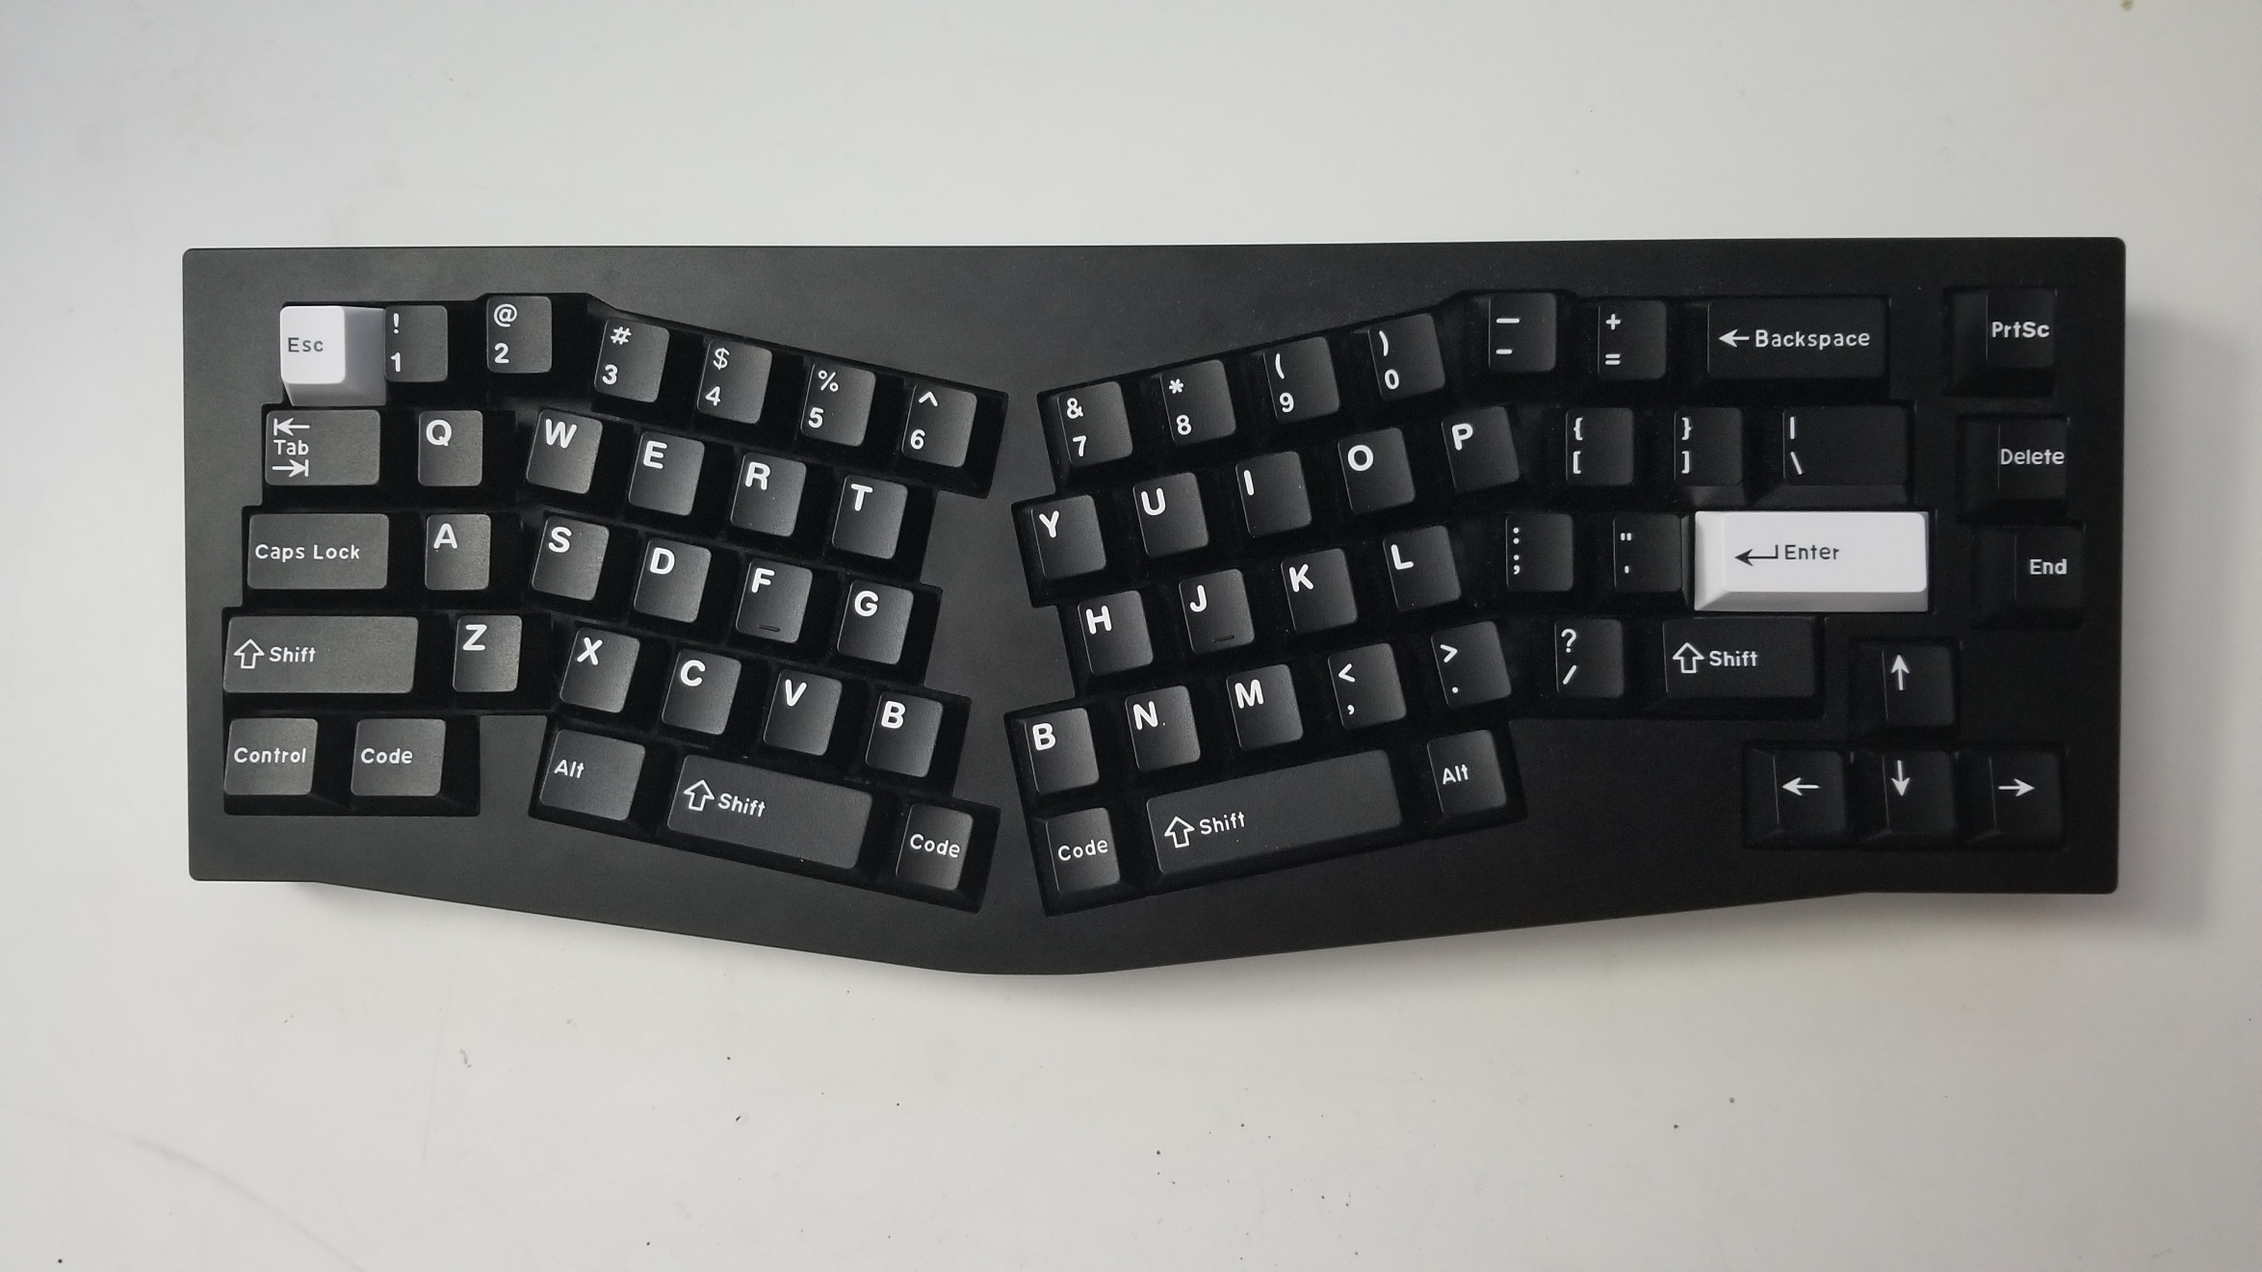
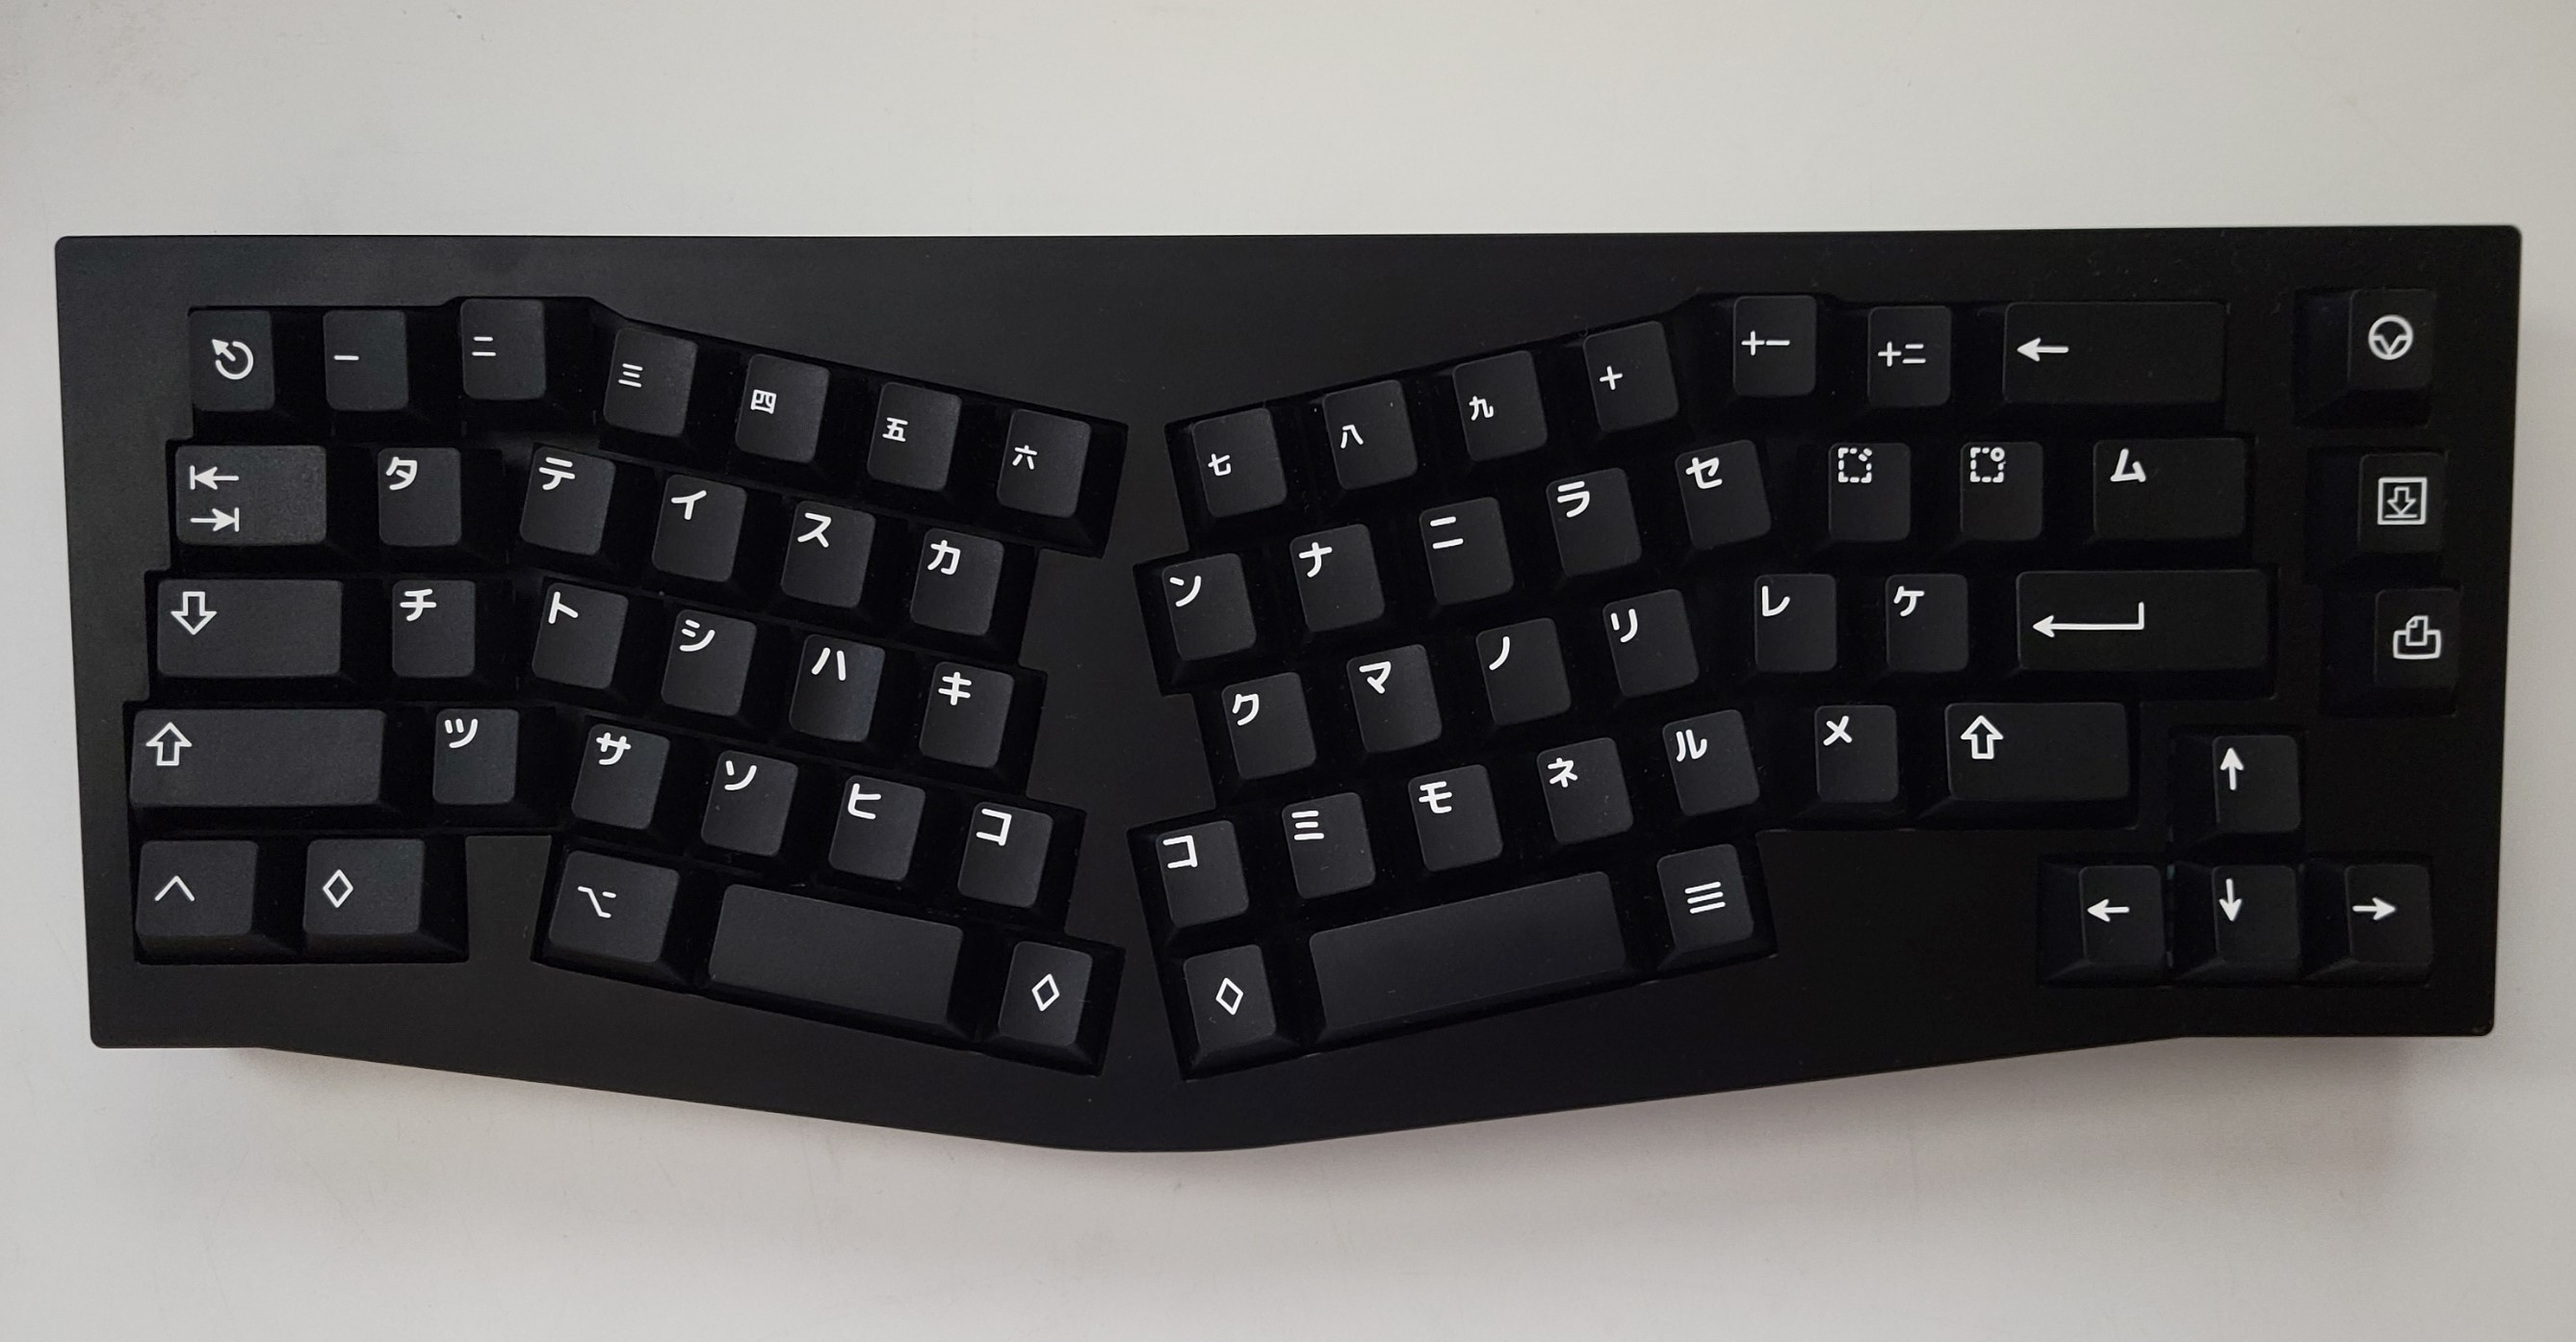
updated keyboard pic

diff --git a/pages/music.html b/pages/music.html
@@ -29,23 +29,22 @@
         <div class="main">
             <h1>music</h1>
             <p>hobby, not as active right now</p>
-            <p>bring back 2016 soundcloud</p>
-            <p>fav genres: death metal, jpop, rap, hyperpop</p>
+            <p>DAW: FL Studio 12</p>
             <a href = "https://soundcloud.com/akukerang"><img id = "social" src="../resources/logos/soundcloud.png" alt="soundcloud" style="margin-top:10px"></a>
-            <h2>phonk</h2>
-            <div class = "content">
-                <iframe width="60%" height="166" scrolling="no" frameborder="no" allow="autoplay" src="https://w.soundcloud.com/player/?url=https%3A//api.soundcloud.com/tracks/1097771002&color=%23ff5500&auto_play=false&hide_related=false&show_comments=true&show_user=true&show_reposts=false&show_teaser=true"></iframe><div style="font-size: 10px; color: #cccccc;line-break: anywhere;word-break: normal;overflow: hidden;white-space: nowrap;text-overflow: ellipsis; font-family: Interstate,Lucida Grande,Lucida Sans Unicode,Lucida Sans,Garuda,Verdana,Tahoma,sans-serif;font-weight: 100;"><a href="https://soundcloud.com/akukerang" title="aku" target="_blank" style="color: #cccccc; text-decoration: none;">aku</a> · <a href="https://soundcloud.com/akukerang/skyline-r32" title="phonktemp1" target="_blank" style="color: #cccccc; text-decoration: none;">phonktemp1</a></div>
-                <iframe width="60%" height="166" scrolling="no" frameborder="no" allow="autoplay" src="https://w.soundcloud.com/player/?url=https%3A//api.soundcloud.com/tracks/1098908470&color=%23ff5500&auto_play=false&hide_related=false&show_comments=true&show_user=true&show_reposts=false&show_teaser=true"></iframe><div style="font-size: 10px; color: #cccccc;line-break: anywhere;word-break: normal;overflow: hidden;white-space: nowrap;text-overflow: ellipsis; font-family: Interstate,Lucida Grande,Lucida Sans Unicode,Lucida Sans,Garuda,Verdana,Tahoma,sans-serif;font-weight: 100;"><a href="https://soundcloud.com/akukerang" title="aku" target="_blank" style="color: #cccccc; text-decoration: none;">aku</a> · <a href="https://soundcloud.com/akukerang/white-comet" title="Afterschool Tea Dreams" target="_blank" style="color: #cccccc; text-decoration: none;">phonktemp2</a></div>
-                <iframe width="60%" height="166" scrolling="no" frameborder="no" allow="autoplay" src="https://w.soundcloud.com/player/?url=https%3A//api.soundcloud.com/tracks/1099970863&color=%23ff5500&auto_play=false&hide_related=false&show_comments=true&show_user=true&show_reposts=false&show_teaser=true"></iframe><div style="font-size: 10px; color: #cccccc;line-break: anywhere;word-break: normal;overflow: hidden;white-space: nowrap;text-overflow: ellipsis; font-family: Interstate,Lucida Grande,Lucida Sans Unicode,Lucida Sans,Garuda,Verdana,Tahoma,sans-serif;font-weight: 100;"><a href="https://soundcloud.com/akukerang" title="aku" target="_blank" style="color: #cccccc; text-decoration: none;">aku</a> · <a href="https://soundcloud.com/akukerang/ghost-of-akina" title="phonktemp3" target="_blank" style="color: #cccccc; text-decoration: none;">phonktemp3</a></div>
+            <h2>ambient</h2>
+            <div class= "content">
+                <iframe width="60%" height="166" scrolling="no" frameborder="no" allow="autoplay" src="https://w.soundcloud.com/player/?url=https%3A//api.soundcloud.com/tracks/1235794801&color=%23ff5500&auto_play=false&hide_related=false&show_comments=true&show_user=true&show_reposts=false&show_teaser=true"></iframe><div style="font-size: 10px; color: #cccccc;line-break: anywhere;word-break: normal;overflow: hidden;white-space: nowrap;text-overflow: ellipsis; font-family: Interstate,Lucida Grande,Lucida Sans Unicode,Lucida Sans,Garuda,Verdana,Tahoma,sans-serif;font-weight: 100;"><a href="https://soundcloud.com/akukerang" title="aku" target="_blank" style="color: #cccccc; text-decoration: none;">aku</a> · <a href="https://soundcloud.com/akukerang/fnnyh0nkvpmn" title="ambienttemp1" target="_blank" style="color: #cccccc; text-decoration: none;">ambienttemp1</a></div>
             </div>
             <h2>mashup</h2>
             <div class="content">
                 <iframe width="60%" height="166" scrolling="no" frameborder="no" allow="autoplay" src="https://w.soundcloud.com/player/?url=https%3A//api.soundcloud.com/tracks/1004242003&color=%23ff5500&auto_play=false&hide_related=false&show_comments=true&show_user=true&show_reposts=false&show_teaser=true"></iframe><div style="font-size: 10px; color: #cccccc;line-break: anywhere;word-break: normal;overflow: hidden;white-space: nowrap;text-overflow: ellipsis; font-family: Interstate,Lucida Grande,Lucida Sans Unicode,Lucida Sans,Garuda,Verdana,Tahoma,sans-serif;font-weight: 100;"><a href="https://soundcloud.com/akukerang" title="aku" target="_blank" style="color: #cccccc; text-decoration: none;">aku</a> · <a href="https://soundcloud.com/akukerang/k-on-dreams" title="Afterschool Tea Dreams" target="_blank" style="color: #cccccc; text-decoration: none;">Afterschool Tea Dreams</a></div>
                 <iframe width="60%" height="166" scrolling="no" frameborder="no" allow="autoplay" src="https://w.soundcloud.com/player/?url=https%3A//api.soundcloud.com/tracks/1004382934&color=%23ff5500&auto_play=false&hide_related=false&show_comments=true&show_user=true&show_reposts=false&show_teaser=true"></iframe><div style="font-size: 10px; color: #cccccc;line-break: anywhere;word-break: normal;overflow: hidden;white-space: nowrap;text-overflow: ellipsis; font-family: Interstate,Lucida Grande,Lucida Sans Unicode,Lucida Sans,Garuda,Verdana,Tahoma,sans-serif;font-weight: 100;"><a href="https://soundcloud.com/akukerang" title="aku" target="_blank" style="color: #cccccc; text-decoration: none;">aku</a> · <a href="https://soundcloud.com/akukerang/blend-x" title="Blend X" target="_blank" style="color: #cccccc; text-decoration: none;">Blend X</a></div>
             </div>
-            <h2>ambient</h2>
-            <div class= "content">
-                <iframe width="60%" height="166" scrolling="no" frameborder="no" allow="autoplay" src="https://w.soundcloud.com/player/?url=https%3A//api.soundcloud.com/tracks/1235794801&color=%23ff5500&auto_play=false&hide_related=false&show_comments=true&show_user=true&show_reposts=false&show_teaser=true"></iframe><div style="font-size: 10px; color: #cccccc;line-break: anywhere;word-break: normal;overflow: hidden;white-space: nowrap;text-overflow: ellipsis; font-family: Interstate,Lucida Grande,Lucida Sans Unicode,Lucida Sans,Garuda,Verdana,Tahoma,sans-serif;font-weight: 100;"><a href="https://soundcloud.com/akukerang" title="aku" target="_blank" style="color: #cccccc; text-decoration: none;">aku</a> · <a href="https://soundcloud.com/akukerang/fnnyh0nkvpmn" title="ambienttemp1" target="_blank" style="color: #cccccc; text-decoration: none;">ambienttemp1</a></div>
+            <h2>phonk</h2>
+            <div class = "content">
+                <iframe width="60%" height="166" scrolling="no" frameborder="no" allow="autoplay" src="https://w.soundcloud.com/player/?url=https%3A//api.soundcloud.com/tracks/1097771002&color=%23ff5500&auto_play=false&hide_related=false&show_comments=true&show_user=true&show_reposts=false&show_teaser=true"></iframe><div style="font-size: 10px; color: #cccccc;line-break: anywhere;word-break: normal;overflow: hidden;white-space: nowrap;text-overflow: ellipsis; font-family: Interstate,Lucida Grande,Lucida Sans Unicode,Lucida Sans,Garuda,Verdana,Tahoma,sans-serif;font-weight: 100;"><a href="https://soundcloud.com/akukerang" title="aku" target="_blank" style="color: #cccccc; text-decoration: none;">aku</a> · <a href="https://soundcloud.com/akukerang/skyline-r32" title="phonktemp1" target="_blank" style="color: #cccccc; text-decoration: none;">phonktemp1</a></div>
+                <iframe width="60%" height="166" scrolling="no" frameborder="no" allow="autoplay" src="https://w.soundcloud.com/player/?url=https%3A//api.soundcloud.com/tracks/1098908470&color=%23ff5500&auto_play=false&hide_related=false&show_comments=true&show_user=true&show_reposts=false&show_teaser=true"></iframe><div style="font-size: 10px; color: #cccccc;line-break: anywhere;word-break: normal;overflow: hidden;white-space: nowrap;text-overflow: ellipsis; font-family: Interstate,Lucida Grande,Lucida Sans Unicode,Lucida Sans,Garuda,Verdana,Tahoma,sans-serif;font-weight: 100;"><a href="https://soundcloud.com/akukerang" title="aku" target="_blank" style="color: #cccccc; text-decoration: none;">aku</a> · <a href="https://soundcloud.com/akukerang/white-comet" title="Afterschool Tea Dreams" target="_blank" style="color: #cccccc; text-decoration: none;">phonktemp2</a></div>
+                <iframe width="60%" height="166" scrolling="no" frameborder="no" allow="autoplay" src="https://w.soundcloud.com/player/?url=https%3A//api.soundcloud.com/tracks/1099970863&color=%23ff5500&auto_play=false&hide_related=false&show_comments=true&show_user=true&show_reposts=false&show_teaser=true"></iframe><div style="font-size: 10px; color: #cccccc;line-break: anywhere;word-break: normal;overflow: hidden;white-space: nowrap;text-overflow: ellipsis; font-family: Interstate,Lucida Grande,Lucida Sans Unicode,Lucida Sans,Garuda,Verdana,Tahoma,sans-serif;font-weight: 100;"><a href="https://soundcloud.com/akukerang" title="aku" target="_blank" style="color: #cccccc; text-decoration: none;">aku</a> · <a href="https://soundcloud.com/akukerang/ghost-of-akina" title="phonktemp3" target="_blank" style="color: #cccccc; text-decoration: none;">phonktemp3</a></div>
             </div>
 
             

diff --git a/pages/keyboards.html b/pages/keyboards.html
@@ -34,8 +34,8 @@
             <div class = "content">
                 <p>keyboard: keychron q8</p> 
                 <p>switches: akko cream blue lubed w/ krytox 205g0</p>
-                <p>keycaps: clone gmk wob</p>
-                <a href = ""><img id = "keyboard" src="../resources/keyboards/q8b.jpg"></a>
+                <p>keycaps: gmk wob katakana</p>
+                <a href = "https://youtu.be/NPfa5_qN_-E"><img id = "keyboard" src="../resources/keyboards/q8b.jpg"></a>
             </div>
 
             <h2>keychron v1 w/ akko lavender</h2>
